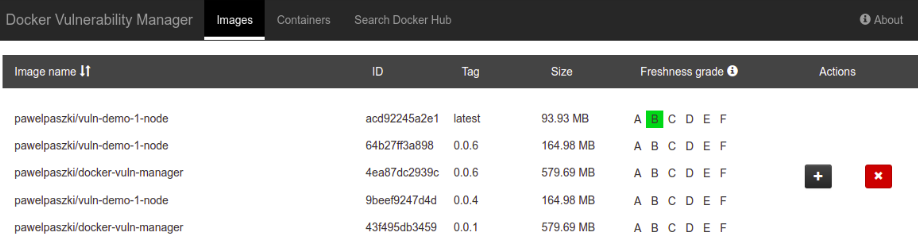
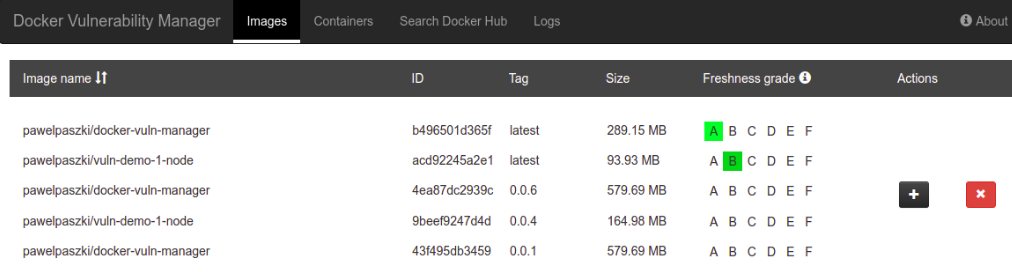
displaying logs complete

diff --git a/src/app/containers/containers.component.html b/src/app/containers/containers.component.html
@@ -4,7 +4,7 @@
   </div>
   <div class="col-md-8"></div>
 </div>
-<div class="row" style="background: #424242; color: white; line-height: 3em; z-index: 2; position: fixed; top: 8em; width: 98.2%;">
+<div class="row" style="background: #424242; color: white; line-height: 3em; z-index: 2; position: fixed; top: 8em; width: 98%;">
   <div class="col-md-4">Image name <span (click)="sort()" class="glyphicon glyphicon-sort" aria-hidden=true></span></div>
   <div class="col-md-2">Name</div>
   <div class="col-md-1">ID</div>
@@ -138,21 +138,21 @@
               <span class="glyphicon glyphicon-play"></span>
             </a>
             <span
-              *ngIf="containerService.startedContainerInProgress.indexOf(container.id) !== -1" class="fa fa-spinner fa-spin" style="font-size:1.5em;">
+              *ngIf="containerService.startedContainerInProgress.indexOf(container.id) !== -1" class="fa fa-spinner fa-spin" style="font-size:1.5em; margin-top: 0.3em;">
             </span>
             <a [ngClass]="container.state !== 'running' ? 'noEvents transparent btn btn-inverse btn-sm' : 'btn btn-inverse btn-sm'"
                (click)="stopContainer(container.id)" style="margin-left: 1em;" title="stop container" *ngIf="containerService.stoppedContainerInProgress.indexOf(container.id) === -1">
               <span class="glyphicon glyphicon-stop"></span>
             </a>
             <span
-              *ngIf="containerService.stoppedContainerInProgress.indexOf(container.id) !== -1" class="fa fa-spinner fa-spin" style="font-size:1.5em; margin-left: 1em;">
+              *ngIf="containerService.stoppedContainerInProgress.indexOf(container.id) !== -1" class="fa fa-spinner fa-spin" style="font-size:1.5em; margin-left: 1em;  margin-top: 0.3em;">
             </span>
             <a [ngClass]="container.state === 'running' ? 'noEvents transparent btn btn-danger btn-sm' : 'btn btn-danger btn-sm'"
                (click)="removeContainer(container.id)" style="margin-left: 1em;" title="remove container" *ngIf="containerService.removedContainerInProgress.indexOf(container.id) === -1">
               <span class="glyphicon glyphicon-remove"></span>
             </a>
             <span
-              *ngIf="containerService.removedContainerInProgress.indexOf(container.id) !== -1" class="fa fa-spinner fa-spin" style="font-size:1.5em; margin-left: 1em;">
+              *ngIf="containerService.removedContainerInProgress.indexOf(container.id) !== -1" class="fa fa-spinner fa-spin" style="font-size:1.5em; margin-left: 1em; margin-top: 0.3em;">
             </span>
           </div>
         </div>

diff --git a/src/app/logs/logs.component.ts b/src/app/logs/logs.component.ts
@@ -1,0 +1,69 @@
+import {Component} from '@angular/core';
+import {SrcHandlingService} from '../services/src-handling.service';
+import {IPaginationModel} from './pagination.model';
+
+@Component({
+  selector: 'app-logs',
+  styleUrls: ['./logs.component.css'],
+  templateUrl: './logs.component.html',
+})
+export class LogsComponent {
+
+  public paginationElements: IPaginationModel[] = [];
+  public pageItems: [number, number];
+  public itemsPerPage: number = 50;
+  public logItems: string[];
+  public pageItemsButtonsToShow: number[] = [];
+
+  constructor(private srcHandlingService: SrcHandlingService) {
+    this.getLogs();
+  }
+
+  public getLogs() {
+    this.srcHandlingService.getLogs().subscribe((resp) => {
+      this.logItems = (resp as any).logs;
+      this.setPaginationElements();
+    });
+  }
+
+  public setItemsPerPage(value: number) {
+    this.itemsPerPage = value;
+    this.setPaginationElements();
+  }
+
+  public setPageItems(start: number, end: number, index: number) {
+    this.pageItemsButtonsToShow = [];
+    this.pageItems = [start, end];
+    if (this.paginationElements.length < 6) {
+      for (let i = 0; i < this.paginationElements.length; i++) {
+        this.pageItemsButtonsToShow.push(i);
+      }
+    } else {
+      this.pageItemsButtonsToShow.push(0);
+      this.pageItemsButtonsToShow.push(index);
+      this.pageItemsButtonsToShow.push(this.paginationElements.length - 1);
+      if (index - 1 >= 0) {
+        this.pageItemsButtonsToShow.push(index - 1);
+      }
+      if (index + 1 < this.paginationElements.length) {
+        this.pageItemsButtonsToShow.push(index + 1);
+      }
+      const set = new Set(this.pageItemsButtonsToShow);
+      const values = set.values();
+      this.pageItemsButtonsToShow = Array.from(values).sort();
+    }
+  }
+
+  public setPaginationElements() {
+    this.paginationElements = [];
+    for (let i = 0; i < this.logItems.length; i += this.itemsPerPage) {
+      if (i + this.itemsPerPage >= this.logItems.length) {
+        this.paginationElements.push(new IPaginationModel(i + 1, this.logItems.length));
+      } else {
+        this.paginationElements.push(new IPaginationModel(i + 1, i + this.itemsPerPage));
+      }
+    }
+    this.setPageItems(this.paginationElements[0].startIndex, this.paginationElements[0].endIndex, 0);
+  }
+
+}

diff --git a/src/app/logs/logs.component.html b/src/app/logs/logs.component.html
@@ -1,0 +1,26 @@
+<div style="background: white; color: white; line-height: 3em; margin-bottom: 1em; z-index: 1; position: fixed; top: 3.5em; width: 100%;">
+  blank filler
+</div>
+<div class="row" style="background: #424242; color: white; line-height: 3em; margin-bottom: 1em; z-index: 2; position: fixed; top: 5em; width: 98%;">
+  <div class="col-md-3">Items per page:
+    <span style="margin-left: 0.5em; cursor: pointer;" [ngClass]="{'large': itemsPerPage === 50}" (click)="setItemsPerPage(50)">50</span>
+    <span style="margin-left: 0.5em; cursor: pointer;" [ngClass]="{'large': itemsPerPage === 200}" (click)="setItemsPerPage(200)">200</span>
+    <span style="margin-left: 0.5em; cursor: pointer;" [ngClass]="{'large': itemsPerPage === 100000}" (click)="setItemsPerPage(100000)">all</span>
+  </div>
+  <div class="col-md-5" style="text-align:right;">Show Logs:</div>
+  <div class="col-md-4" style="text-align:right;">
+    <div *ngFor="let pagination of paginationElements; let i = index" style="display: inline;">
+      <span (click)="setPageItems(pagination.startIndex, pagination.endIndex, i)"
+        [ngClass]="pagination.startIndex === pageItems[0] ? 'large' : ''" style="margin-right: 0.5em;"
+        *ngIf="pageItemsButtonsToShow.indexOf(i) !== -1"
+      >{{pagination.startIndex}}-{{pagination.endIndex}}</span>
+    </div>
+  </div>
+</div>
+<div style="margin-top: 10em;">
+  <div *ngFor="let logItem of logItems; let i = index" style="margin:0.3em; cursor: pointer;">
+    <div *ngIf="i >= pageItems[0] - 1 && i < pageItems[1]">
+      {{logItem}}
+    </div>
+  </div>
+</div>

diff --git a/src/app/routes.ts b/src/app/routes.ts
@@ -6,6 +6,7 @@ import {ChartComponent} from './chart/chart.component';
 import {ContainersComponent} from './containers/containers.component';
 import {DockerHubSearchComponent} from './docker-hub-search/docker-hub-search.component';
 import {ImagesComponent} from './images/images.component';
+import {LogsComponent} from './logs/logs.component';
 import {OnAuthRouteActivator} from './shared/onAuthRouteActivator';
 
 export const appRoutes: Routes = [
@@ -13,6 +14,7 @@ export const appRoutes: Routes = [
   { path: 'about', component: AboutComponent },
   { path: 'containers', component: ContainersComponent, canActivate: [OnAuthRouteActivator] },
   { path: 'search', component: DockerHubSearchComponent, canActivate: [OnAuthRouteActivator] },
+  { path: 'logs', component: LogsComponent, canActivate: [OnAuthRouteActivator] },
   { path: 'account', component: AccountComponent, canActivate: [OnAuthRouteActivator] },
   { path: 'login', component: AuthComponent },
   { path: 'chart/:name', component: ChartComponent },

diff --git a/src/app/navbar/navbar.component.html b/src/app/navbar/navbar.component.html
@@ -7,6 +7,7 @@
       <li><a class="hvr-underline" [routerLink]="['/images']" routerLinkActive="active" [routerLinkActiveOptions]="{exact:true}"> Images </a></li>
       <li><a *ngIf="token !== ''" class="hvr-underline" [routerLink]="['/containers']" routerLinkActive="active" [routerLinkActiveOptions]="{exact:true}"> Containers </a></li>
       <li><a *ngIf="token !== ''" class="hvr-underline" [routerLink]="['/search']" routerLinkActive="active" [routerLinkActiveOptions]="{exact:true}"> Search Docker Hub </a></li>
+      <li><a *ngIf="token !== ''" class="hvr-underline" [routerLink]="['/logs']" routerLinkActive="active" [routerLinkActiveOptions]="{exact:true}"> Logs </a></li>
     </ul>
     <ul class="nav navbar-nav navbar-right">
       <li><a class="hvr-underline" [routerLink]="['/about']" routerLinkActive="active" [routerLinkActiveOptions]="{exact:true}"><span class="glyphicon glyphicon-info-sign"></span> About</a></li>

diff --git a/src/app/app.module.ts b/src/app/app.module.ts
@@ -17,6 +17,7 @@ import { DockerHubSearchComponent } from './docker-hub-search/docker-hub-search.
 import {FreshnessDefinitionComponent} from './images/freshness-definition.component';
 import {FreshnessIndicatorComponent} from './images/freshness-indicator.component';
 import { ImagesComponent } from './images/images.component';
+import {LogsComponent} from './logs/logs.component';
 import { NavbarComponent } from './navbar/navbar.component';
 import { appRoutes } from './routes';
 import {AuthService} from './services/auth.service';
@@ -40,6 +41,7 @@ import {OnAuthRouteActivator} from './shared/onAuthRouteActivator';
     FreshnessDefinitionComponent,
     FreshnessIndicatorComponent,
     DockerHubSearchComponent,
+    LogsComponent,
     NavbarComponent,
   ],
   imports: [

diff --git a/src/app/images/images.component.html b/src/app/images/images.component.html
@@ -1,7 +1,7 @@
 <div style="background: white; color: white; line-height: 3em; margin-bottom: 1em; z-index: 1; position: fixed; top: 3.5em; width: 100%;">
   blank filler
 </div>
-<div class="row" style="background: #424242; color: white; line-height: 3em; margin-bottom: 1em; z-index: 2; position: fixed; top: 5em; width: 100%;">
+<div class="row" style="background: #424242; color: white; line-height: 3em; margin-bottom: 1em; z-index: 2; position: fixed; top: 5em; width: 98%;">
   <div class="col-md-4">Image name <span (click)="sort()" class="glyphicon glyphicon-sort" aria-hidden=true></span></div>
   <div class="col-md-1">ID</div>
   <div class="col-md-1">Tag</div>

diff --git a/src/app/services/src-handling.service.ts b/src/app/services/src-handling.service.ts
@@ -22,6 +22,17 @@ export class SrcHandlingService {
 
   }
 
+  public getLogs(): Observable<any[]> {
+    const token: string = localStorage.getItem('token');
+    const authHttpOptions = {
+      headers: new HttpHeaders({ 'Content-Type': 'application/json', 'x-access-token': token }),
+    };
+    return this.http.get<any[]>('http://localhost:3000/api/logs', authHttpOptions)
+      .pipe(
+        tap(() => {}),
+      );
+  }
+
   public getExtractedDirectories(): Observable<any[]> {
     const token: string = localStorage.getItem('token');
     const authHttpOptions = {

diff --git a/src/app/containers/containers.component.ts b/src/app/containers/containers.component.ts
@@ -110,7 +110,7 @@ export class ContainersComponent implements OnInit {
         }
         that.srcHandlingService.queriedContainers.splice(
           that.srcHandlingService.queriedContainers.indexOf(imageName), 1);
-        that.srcHandlingService.testsRun.splice(that.testsRun.indexOf(imageName), 1);
+        that.srcHandlingService.testsRun.splice(that.srcHandlingService.testsRun.indexOf(imageName), 1);
       });
     }
     extractIfNeeded(that);

diff --git a/src/app/about/about.component.ts b/src/app/about/about.component.ts
@@ -5,11 +5,8 @@ import { Component, OnInit } from '@angular/core';
   styleUrls: ['./about.component.css'],
   templateUrl: './about.component.html',
 })
-export class AboutComponent implements OnInit {
+export class AboutComponent {
 
   constructor() { }
-
-  public ngOnInit() {
-  }
 
 }

diff --git a/src/app/logs/pagination.model.ts b/src/app/logs/pagination.model.ts
@@ -1,0 +1,8 @@
+export class IPaginationModel {
+  public startIndex: number;
+  public endIndex: number;
+  constructor(startIndex: number, endIndex: number) {
+    this.startIndex = startIndex;
+    this.endIndex = endIndex;
+  }
+}

diff --git a/src/app/logs/logs.component.css b/src/app/logs/logs.component.css
@@ -1,0 +1,5 @@
+.large {
+  font-size: large;
+  font-weight: 900;
+  text-decoration: underline;
+}
